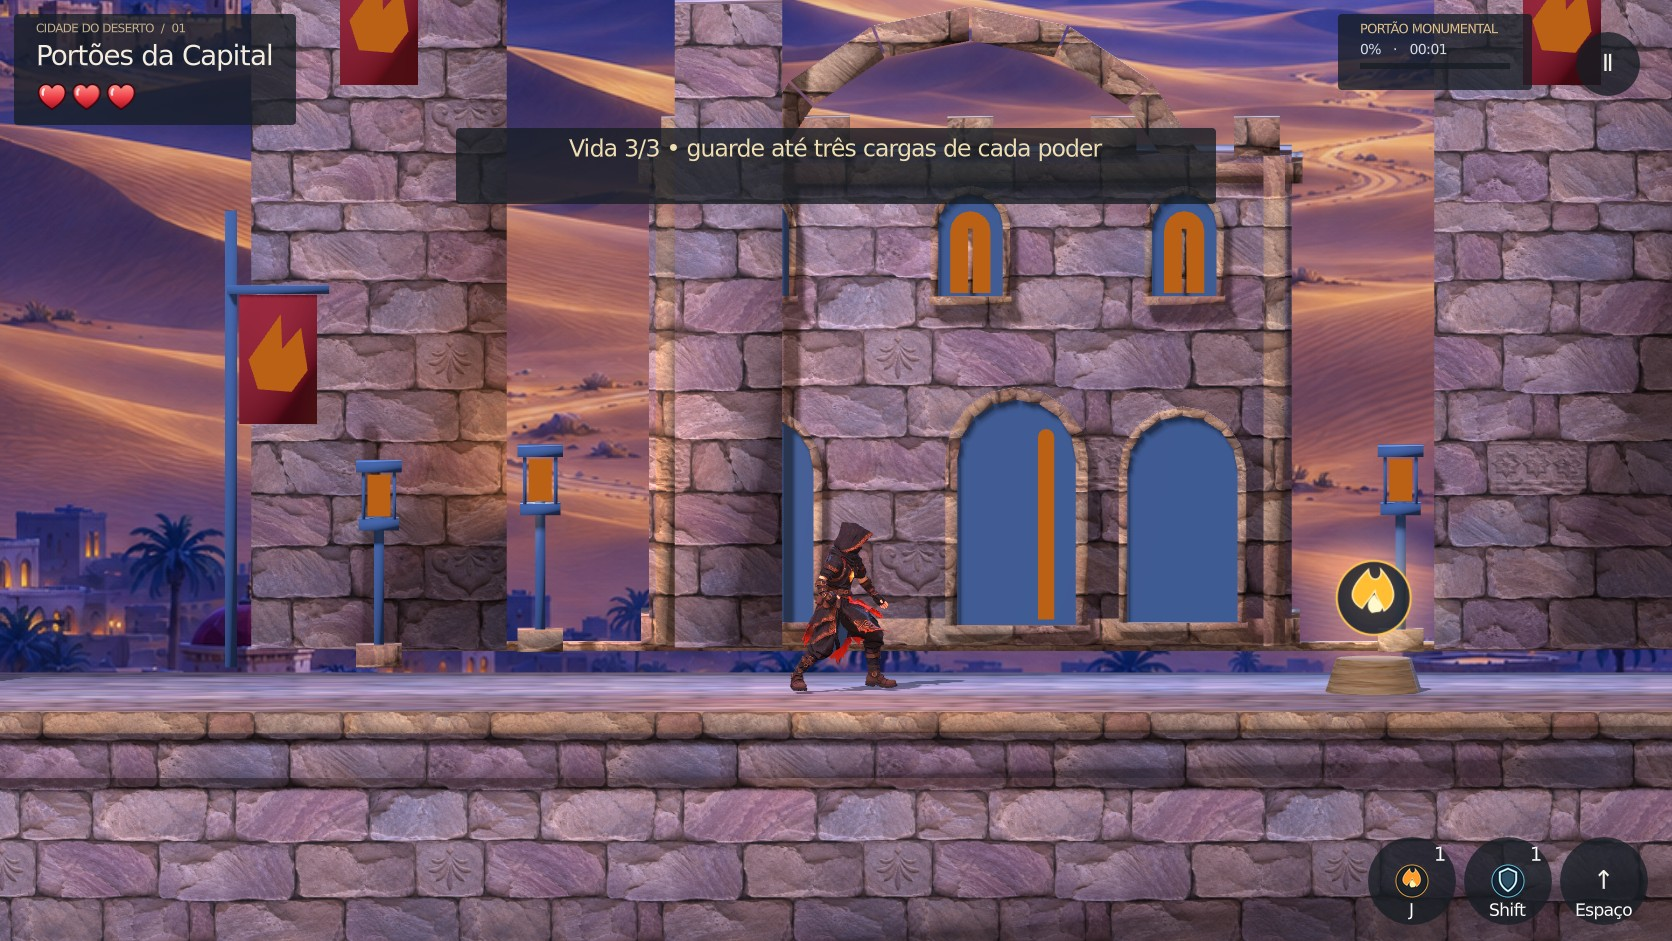
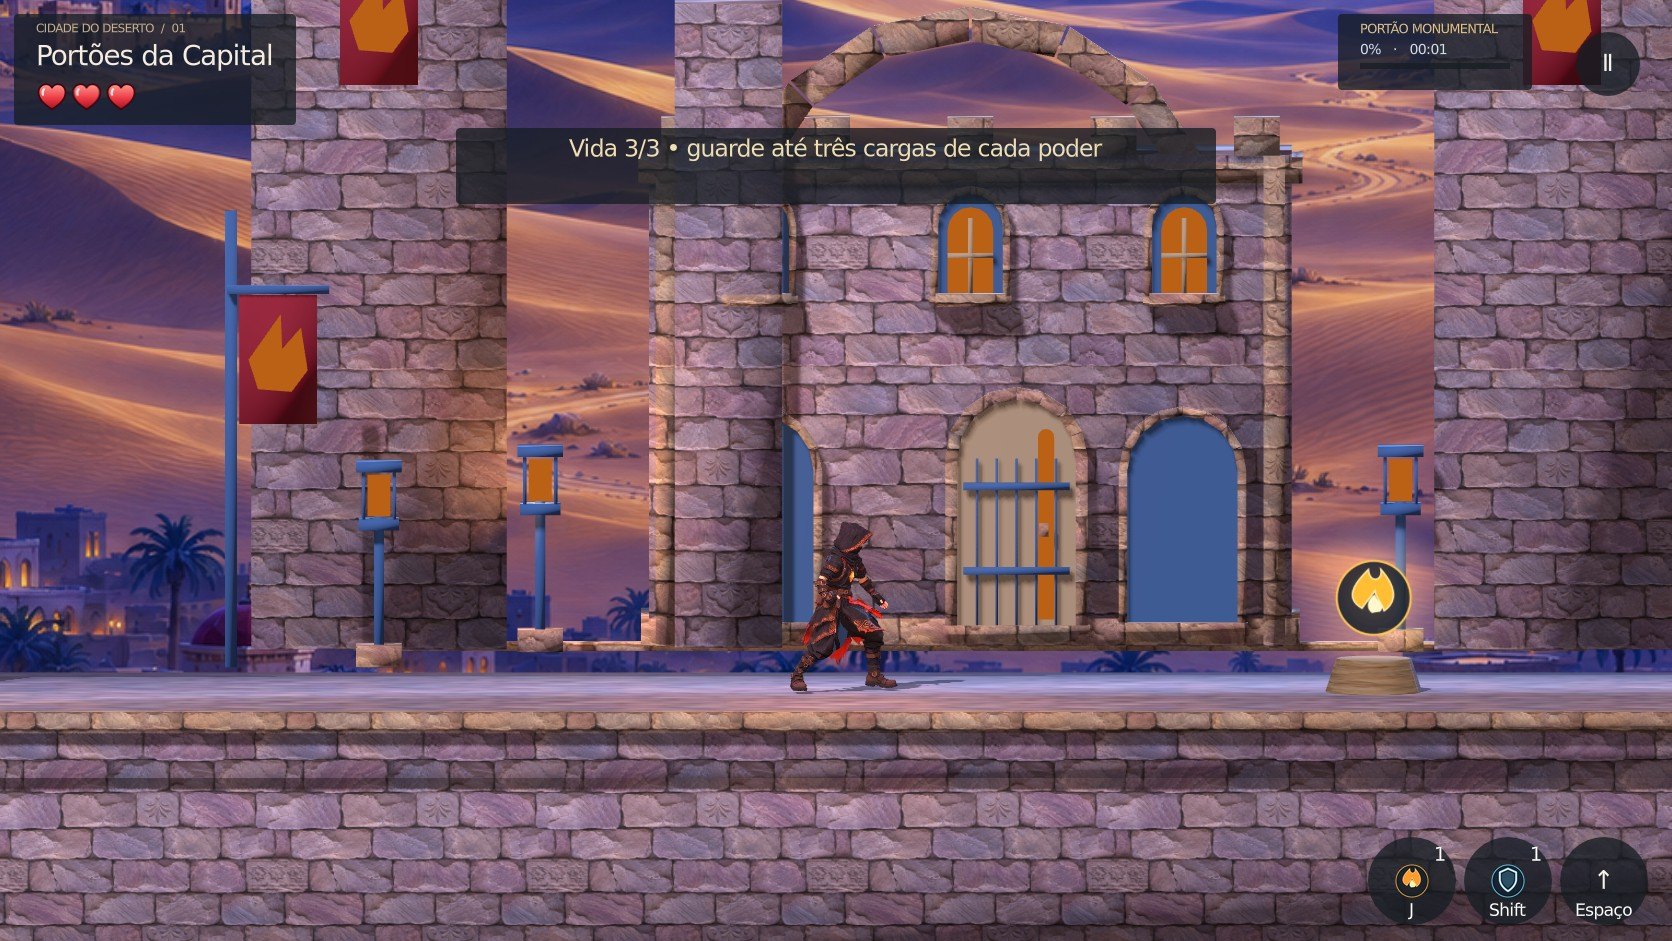
style(desert): refine city doors windows and masonry scale in stages 1 and 2

diff --git a/docs/desert/REINO_10_FASES.md b/docs/desert/REINO_10_FASES.md
@@ -99,3 +99,12 @@ aprovados pelo dono, sem personagens substitutos. O panorama posterior foi
 reprovado e não foi instalado. **A arte aprovada ainda não foi integrada como
 camadas/módulos ao cenário jogável**; as alterações desta rodada são de gameplay.
 Não confundir os conceitos aprovados com as capturas da versão reprovada.
+
+### Acabamento incremental das fases1/2
+
+Portas das casas receberam madeira, tábuas e ferragens; janelas receberam
+divisórias e peitoris; a escala da alvenaria ficou menor. São malhas decorativas
+agrupadas nos materiais existentes, sem novas colisões ou mudanças de percurso.
+O fundo de dunas/cidade e as bandeiras continuam ativos. Capturas atualizadas em
+`evidence/city-desert`. Ainda não equivale à integração completa das fachadas
+ilustradas aprovadas.
